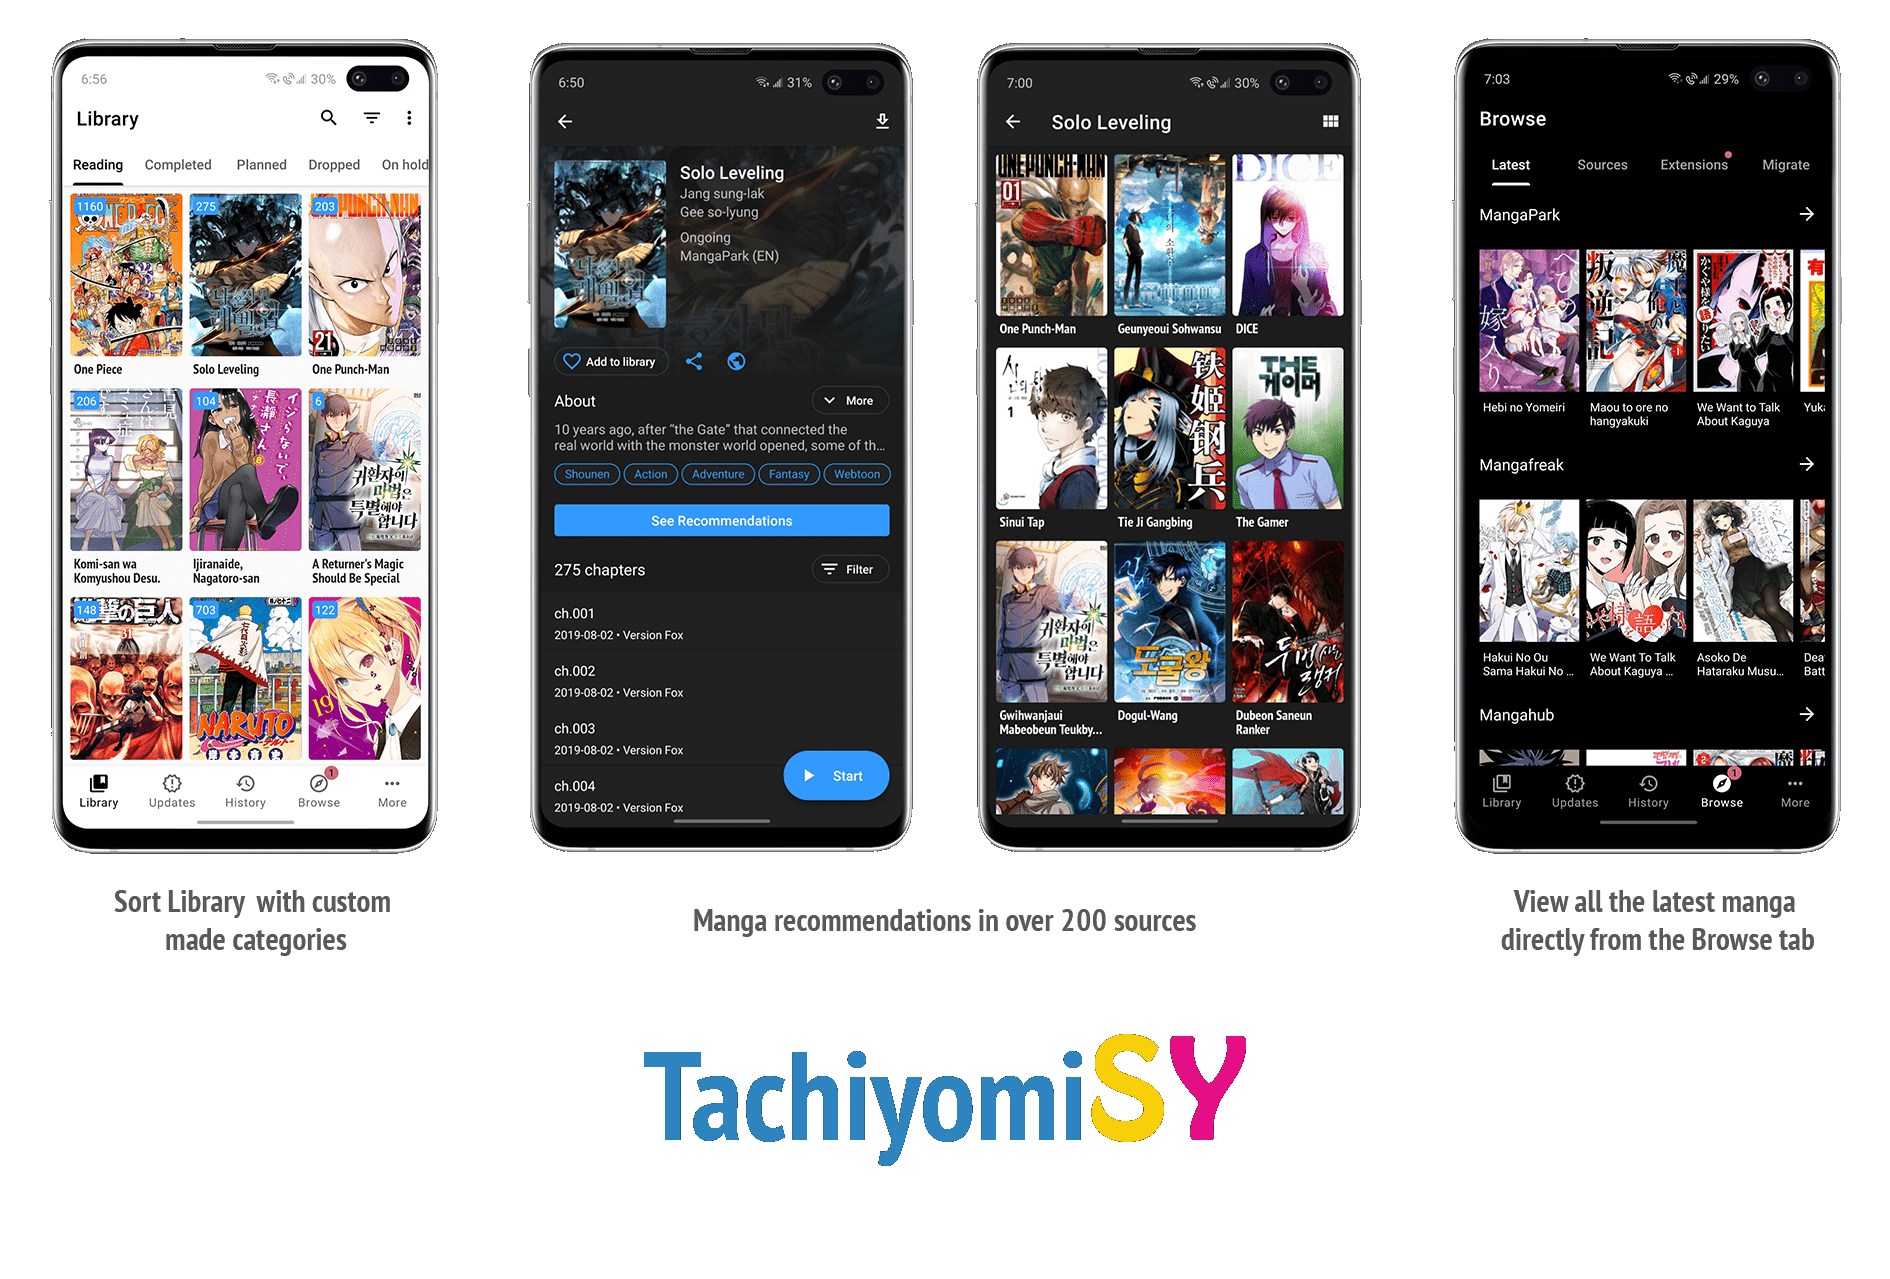
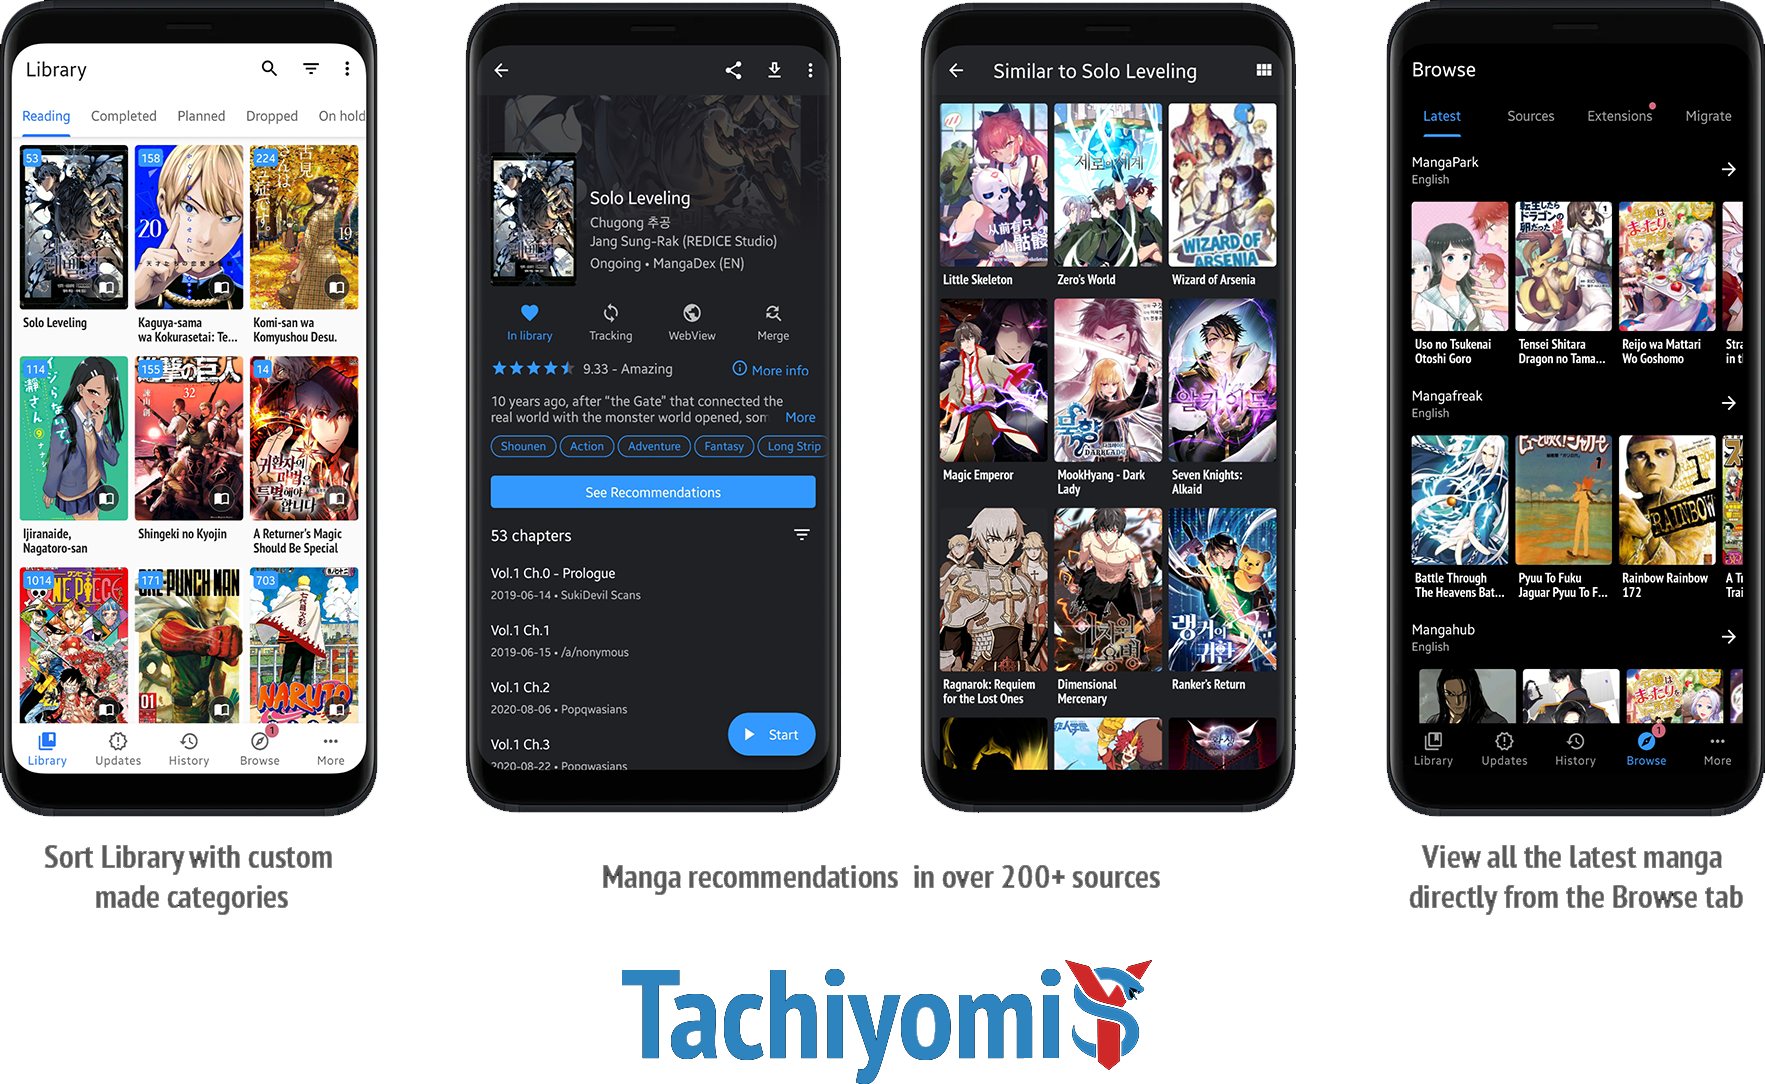
Update Readme, images and issue templates

diff --git a/README.md b/README.md
@@ -4,7 +4,7 @@
 
 
 # ![app icon](./.github/readme-images/app-icon.png)TachiyomiSY
-Tachiyomi is a free and open source manga reader for Android 5.0 and above. This version of Tachiyomi, TachiyomiSY was based off TachiyomiAZ. TachiyomiAZ has decided to keep the old UI of the app, this version is meant to push forward in the ways of UI and usability, doing that it takes the new Tachiyomi(original) UI. TachiyomiSY also includes a lot of the up in coming features of the Tachiyomi Preview, as well as features from other forks like J2K, it has quite a few custom features from myself and contributors as well.
+Tachiyomi is a free and open source manga reader for Android 5.0 and above. This version of Tachiyomi, TachiyomiSY was based off TachiyomiAZ. This version is meant to push forward in the ways of usability and features. TachiyomiSY tries to push forward where it can, but staying in a place where it can easily grab updates and features from the main app, it tries to make new features, or take features from other forks like J2K and Neko.
 
 ![screenshots of app](./.github/readme-images/screens.png)
 
@@ -21,55 +21,49 @@ Features of Tachiyomi(original) include:
 * Create backups locally to read offline or to your desired cloud service
 
 Features of TachiyomiSY include:
-* Uses the new Tachiyomi Stable UI
 * Latest tab, store up to 5 sources where you can easily view the latest manga by viewing the tab
-* Hentai features enable/disable, in advanced settings
 * Automatic webtoon detection, allowing the reader to switch to webtoon mode automatically when viewing one
-* Recommendations, from AZ but heavily modified by She11Shocked to use both MAL and Anilist interchangeably 
+* Manga recommendations, uses MAL and Anilist, as well as Neko Similar Manga for Mangadex manga(Thanks to Az, She11Shocked, Carlos, and Goldbattle)
 * Lewd filter, hide the lewd manga in your library when you want to
 * Tracking filter, filter your tracked manga so you can see them or see non-tracked manga, made by She11Shocked
 * Search tracking status in library, made by She11Shocked
-* Backup saved searches
-* New E-Hentai/ExHentai features, such as language settings and watched list settings
-* Comfortable grid view
 * Custom categories for sources, liked the pinned sources, but you can make your own versions and put any sources in them
 * Manga info edit
-* Enhanced views for internal and integrated sources
-* Enhanced usability for internal and delegated sources
+* Manga Cover view + share and save
 * Dynamic Categories, view the library in multiple ways
-* Smart background for reading modes like LTR or Vertical, changes the backgorund based on the page color
+* Smart background for reading modes like LTR or Vertical, changes the background based on the page color
 * Force disable webtoon zoom
 * Continue reading button in library
+* Hentai features enable/disable, in advanced settings
 * Quick clean titles
-
-Inherited from TachiyomiAZ or TachiyomiEH and are included and possibly modified in TachiyomiSY
 * Source migration, migrate all your manga from one source to another
-* Custom hentai sources:
-* * E-Hentai/ExHentai
-* Additional features for some extensions, features include custom description, opening in app, batch add to library:
-* * 8Muses (EroMuse)
-* * HBrowse
-* * HentaiCafe (Foolside)
-* * Hitomi.la
-* * NHentai
-* * PervEden (EN and IT)
-* * Puruin
-* * Tsumino
 * Saving searches
 * Autoscroll
 * Page preload customization
 * Customize image cache size
 * Batch import of custom sources and featured extensions
 * Automatic CAPTCHA solving
-* TriState Filters
-* Infinite history page
-* Search your history page
 * Advanced source settings page, searching, enable/disable all
 * Click tag for local search, long click tag for global search
 * Merge multiple of the same manga from different sources
 * Drag and drop library sorting
 * Library search engine, includes exclude, quotes as absolute, and a bunch of other ways to search
+* New E-Hentai/ExHentai features, such as language settings and watched list settings
+* Enhanced views for internal and integrated sources
+* Enhanced usability for internal and delegated sources
 
+* Custom sources:
+* * E-Hentai/ExHentai
+* Additional features for some extensions, features include custom description, opening in app, batch add to library, and a bunch of other things based on the source:
+* * 8Muses (EroMuse)
+* * HBrowse
+* * HentaiCafe (inside Foolside)
+* * Hitomi.la
+* * Mangadex
+* * NHentai
+* * PervEden (EN and IT)
+* * Puruin
+* * Tsumino
 
 ## Download
 Get the app from our [releases page](https://github.com/jobobby04/tachiyomisy/releases/latest).
@@ -109,7 +103,7 @@ DON'T: https://github.com/inorichi/tachiyomi/issues/75
 * Write a detailed issue, explaining what it should do or how. Avoid writing just "like X app does"
 * Include screenshot (if needed)
 
-Catalogue requests should be created at https://github.com/inorichi/tachiyomi-extensions, they do not belong in this repository.
+Source requests should be created at https://github.com/inorichi/tachiyomi-extensions, they do not belong in this repository.
 </details>
 
 ## FAQ

diff --git a/.github/ISSUE_TEMPLATE/feature_request.md b/.github/ISSUE_TEMPLATE/feature_request.md
@@ -9,7 +9,7 @@ labels: "feature"
 
 I acknowledge that:
 
-- I have updated to the latest version of the app (stable is v1.3.1)
+- I have updated to the latest version of the app (stable is v1.4.0)
 - I have updated all extensions
 - If this is an issue with an extension, that I should be opening an issue in https://github.com/inorichi/tachiyomi-extensions
 

diff --git a/.github/ISSUE_TEMPLATE/bug_report.md b/.github/ISSUE_TEMPLATE/bug_report.md
@@ -9,7 +9,7 @@ labels: "bug"
 
 I acknowledge that:
 
-- I have updated to the latest version of the app (stable is v1.3.1)
+- I have updated to the latest version of the app (stable is v1.4.0)
 - I have updated all extensions
 - If this is an issue with an extension, that I should be opening an issue in https://github.com/inorichi/tachiyomi-extensions
 

diff --git a/.github/ISSUE_TEMPLATE.md b/.github/ISSUE_TEMPLATE.md
@@ -2,7 +2,7 @@
 
 I acknowledge that:
 
-- I have updated to the latest version of the app (stable is v1.3.1)
+- I have updated to the latest version of the app (stable is v1.4.0)
 - I have updated all extensions
 - If this is an issue with an extension, that I should be opening an issue in https://github.com/inorichi/tachiyomi-extensions
 
